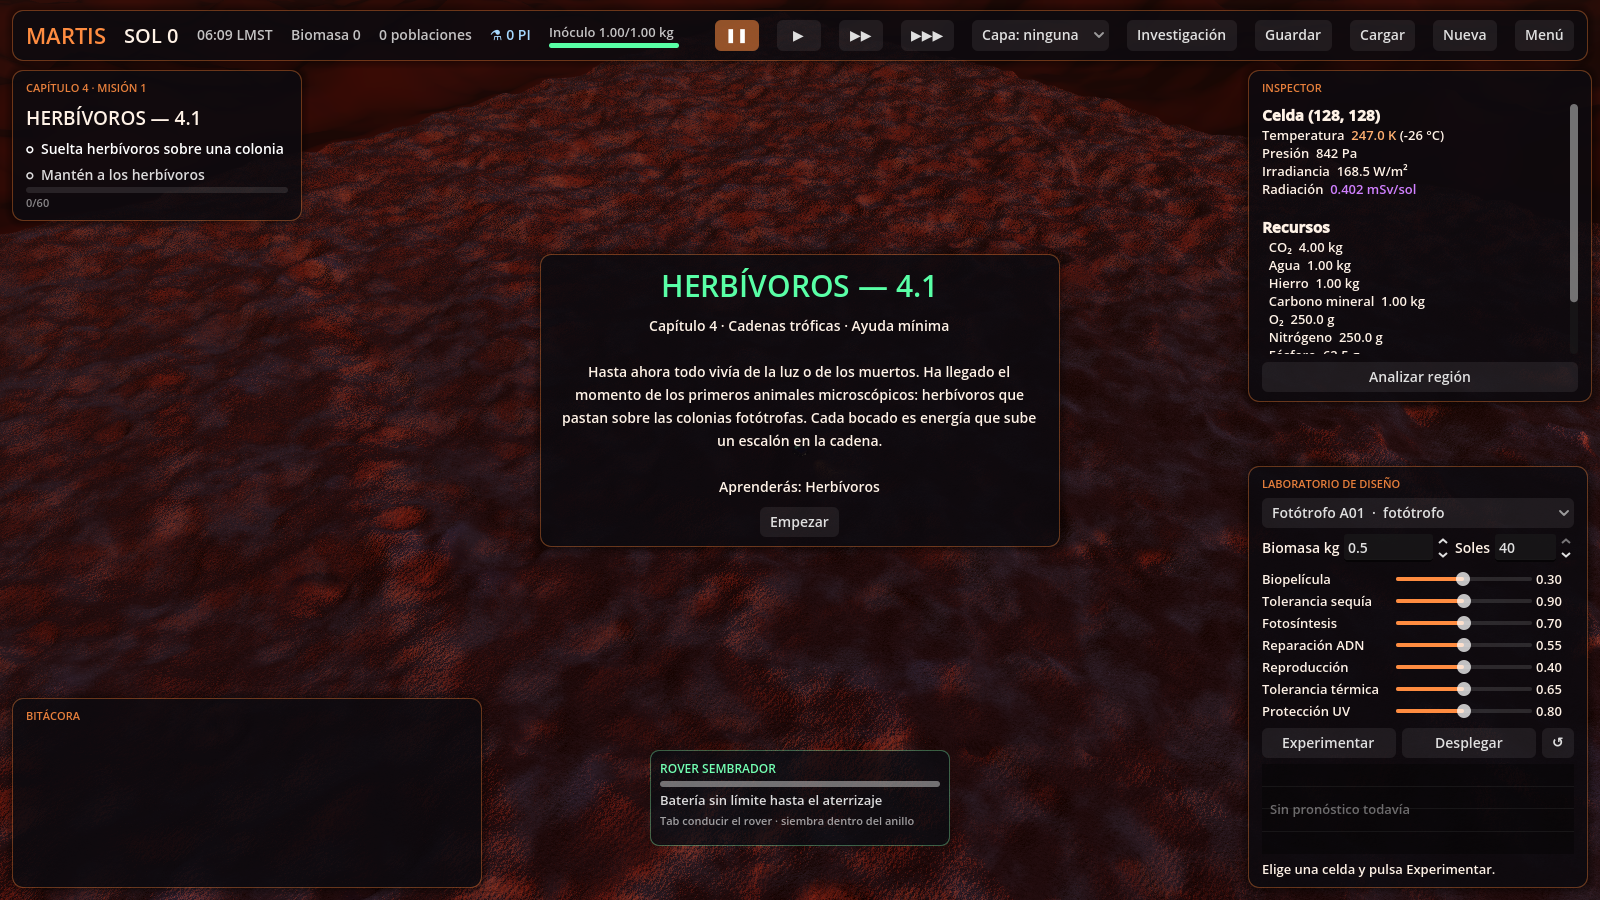
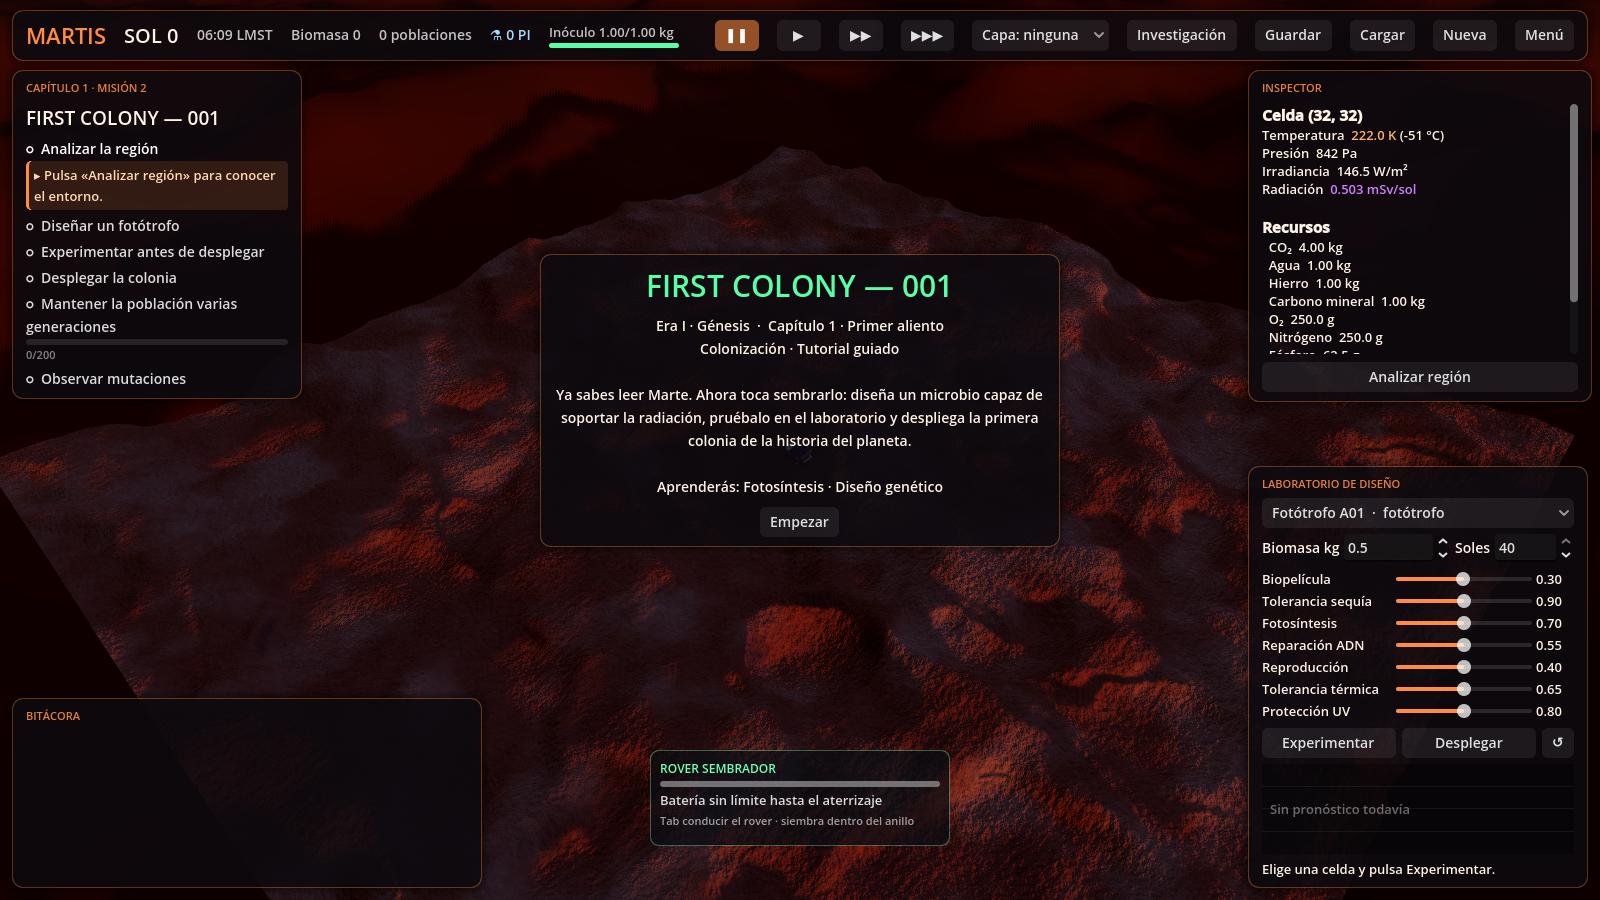
H8: eras y tipos de misión del documento maestro v2.0, etiqueta epistémica y ADR-028
- Capítulos 1-2 en la Era I (Génesis), 3-4 en la II y 5 en la III (§5).
- Cada misión lleva su tipo del §11; el briefing muestra era, tipo y ayuda.
- Conceptos del códice etiquetados como ciencia, modelo o especulativo (§2, §36.1).
- ADR-028, ROADMAP y capturas.

Claude-Session: https://claude.ai/code/session_01QWS2wGiFfDwYnMReGvXqSx

diff --git a/src/Martis.Simulation/Missions/Campaign.cs b/src/Martis.Simulation/Missions/Campaign.cs
@@ -9,19 +9,57 @@ namespace Martis.Simulation.Missions;
 /// One mission of the campaign, in play order. <see cref="File"/> is under <c>data/missions</c>.
 /// <see cref="Teaches"/> names the concepts (H8) the player learns by finishing it.
 /// </summary>
-public sealed record CampaignMission(string Id, string File, string ChapterId, int Number, IReadOnlyList<string>? Teaches = null)
+public sealed record CampaignMission(string Id, string File, string ChapterId, int Number, IReadOnlyList<string>? Teaches = null, MissionKind Kind = MissionKind.Colonization)
 {
     public IReadOnlyList<string> Concepts => Teaches ?? [];
 }
 
-/// <summary>A concept of the codex (H8): what a mission teaches, shown in its briefing and debrief.</summary>
-public sealed record CampaignConcept(string Id, string Title, string Text);
+/// <summary>
+/// A concept of the codex (H8): what a mission teaches, shown in its briefing and debrief.
+/// <see cref="Epistemic"/> labels how solid it is (master document v2.0, §2 and §36.1).
+/// </summary>
+public sealed record CampaignConcept(string Id, string Title, string Text, Epistemic Epistemic = Epistemic.Science);
+
+/// <summary>Mission types of the master document v2.0, §11.</summary>
+public enum MissionKind
+{
+    Reconnaissance,
+    Sampling,
+    Experiment,
+    Colonization,
+    Restoration,
+    Terraforming,
+    Expedition,
+}
+
+/// <summary>How a concept should be read (master document v2.0, §2: «rigor transparente»).</summary>
+public enum Epistemic
+{
+    /// <summary>Established science.</summary>
+    Science,
+
+    /// <summary>A simplified model of real science, tuned for play.</summary>
+    Model,
+
+    /// <summary>Speculative: a game hypothesis, labelled as such.</summary>
+    Speculative,
+}
+
+/// <summary>The eras of progression of the master document v2.0, §5.</summary>
+public static class Eras
+{
+    public static readonly IReadOnlyList<string> Names = ["Génesis", "Ecosistemas", "Inteligencia", "Expansión", "Biosferas múltiples"];
+
+    public static string Roman(int era) => era switch { 1 => "I", 2 => "II", 3 => "III", 4 => "IV", 5 => "V", _ => throw new ArgumentOutOfRangeException(nameof(era)) };
+
+    public static string Name(int era) => Names[era - 1];
+}
 
 /// <summary>
 /// One chapter. <see cref="GridSize"/> is the side of the map its missions use (64, 128 or
 /// 256, Daniel 2026-11-16). A chapter with no missions is announced but not playable yet.
 /// </summary>
-public sealed record CampaignChapter(string Id, int Number, string Title, string Summary, int GridSize, IReadOnlyList<CampaignMission> Missions, int? PopulationBudget = null, string? Gradient = null, string? Transitions = null, string? Trophic = null, GuidanceLevel Guidance = GuidanceLevel.Hints)
+public sealed record CampaignChapter(string Id, int Number, string Title, string Summary, int GridSize, IReadOnlyList<CampaignMission> Missions, int? PopulationBudget = null, string? Gradient = null, string? Transitions = null, string? Trophic = null, GuidanceLevel Guidance = GuidanceLevel.Hints, int Era = 1)
 {
     public bool Playable => Missions.Count > 0;
 
@@ -105,7 +143,8 @@ public sealed record CampaignDefinition(string Id, string Name, IReadOnlyList<Ca
                 IReadOnlyList<string>? teaches = mission.TryGetProperty("teaches", out var taught)
                     ? [.. taught.EnumerateArray().Select(concept => concept.GetString()!)]
                     : null;
-                missions.Add(new CampaignMission(id, mission.GetProperty("file").GetString()!, chapterId, missions.Count + 1, teaches));
+                var kind = mission.TryGetProperty("kind", out var kindItem) ? ParseKind(id, kindItem.GetString()) : MissionKind.Colonization;
+                missions.Add(new CampaignMission(id, mission.GetProperty("file").GetString()!, chapterId, missions.Count + 1, teaches, kind));
             }
 
             chapters.Add(new CampaignChapter(
@@ -119,7 +158,12 @@ public sealed record CampaignDefinition(string Id, string Name, IReadOnlyList<Ca
                 item.TryGetProperty("gradient", out var gradient) ? gradient.GetString() : null,
                 item.TryGetProperty("transitions", out var transitions) ? transitions.GetString() : null,
                 item.TryGetProperty("trophic", out var trophic) ? trophic.GetString() : null,
-                item.TryGetProperty("guidance", out var guidance) ? ParseGuidance(chapterId, guidance.GetString()) : GuidanceLevel.Hints));
+                item.TryGetProperty("guidance", out var guidance) ? ParseGuidance(chapterId, guidance.GetString()) : GuidanceLevel.Hints,
+                item.TryGetProperty("era", out var era) ? era.GetInt32() : 1));
+            if (chapters[^1].Era is < 1 or > 5 || (chapters.Count > 1 && chapters[^1].Era < chapters[^2].Era))
+            {
+                throw new InvalidDataException($"Chapter '{chapterId}' needs an era from 1 to 5 that does not go back.");
+            }
         }
 
         var concepts = new List<CampaignConcept>();
@@ -127,7 +171,14 @@ public sealed record CampaignDefinition(string Id, string Name, IReadOnlyList<Ca
         {
             foreach (var item in conceptItems.EnumerateArray())
             {
-                var concept = new CampaignConcept(item.GetProperty("id").GetString()!, item.GetProperty("title").GetString()!, item.GetProperty("text").GetString()!);
+                var epistemic = item.TryGetProperty("epistemic", out var label) ? label.GetString() switch
+                {
+                    "science" => Epistemic.Science,
+                    "model" => Epistemic.Model,
+                    "speculative" => Epistemic.Speculative,
+                    var other => throw new InvalidDataException($"Unknown epistemic label '{other}'; use science, model or speculative."),
+                } : Epistemic.Science;
+                var concept = new CampaignConcept(item.GetProperty("id").GetString()!, item.GetProperty("title").GetString()!, item.GetProperty("text").GetString()!, epistemic);
                 if (concepts.Any(other => other.Id == concept.Id) || string.IsNullOrWhiteSpace(concept.Title) || string.IsNullOrWhiteSpace(concept.Text))
                 {
                     throw new InvalidDataException($"Concept '{concept.Id}' is repeated or has no title or text.");
@@ -167,6 +218,18 @@ public sealed record CampaignDefinition(string Id, string Name, IReadOnlyList<Ca
 
         return new CampaignDefinition(meta.GetProperty("id").GetString()!, meta.GetProperty("name").GetString()!, chapters, concepts, policy);
     }
+
+    private static MissionKind ParseKind(string missionId, string? value) => value switch
+    {
+        "reconnaissance" => MissionKind.Reconnaissance,
+        "sampling" => MissionKind.Sampling,
+        "experiment" => MissionKind.Experiment,
+        "colonization" => MissionKind.Colonization,
+        "restoration" => MissionKind.Restoration,
+        "terraforming" => MissionKind.Terraforming,
+        "expedition" => MissionKind.Expedition,
+        _ => throw new InvalidDataException($"Mission '{missionId}' has unknown kind '{value}'."),
+    };
 
     private static GuidanceLevel ParseGuidance(string chapterId, string? value) => value switch
     {

diff --git a/src/Martis.Game/scripts/CampaignMenu.cs b/src/Martis.Game/scripts/CampaignMenu.cs
@@ -53,7 +53,7 @@ public partial class CampaignMenu : Control
         title.AddThemeColorOverride("font_shadow_color", new Color(0, 0, 0, 0.8f));
         title.AddThemeConstantOverride("shadow_offset_y", 3);
         column.AddChild(title);
-        var subtitle = new Label { Text = "G É N E S I S   ·   de la primera bacteria a la primera mente", HorizontalAlignment = HorizontalAlignment.Center };
+        var subtitle = new Label { Text = "G É N E S I S   ·   de la primera bacteria a un Marte vivo", HorizontalAlignment = HorizontalAlignment.Center };
         subtitle.AddThemeFontSizeOverride("font_size", 17);
         subtitle.AddThemeColorOverride("font_color", new Color(1f, 0.93f, 0.85f, 0.85f));
         column.AddChild(subtitle);
@@ -123,7 +123,13 @@ public partial class CampaignMenu : Control
         foreach (var concept in progress.Campaign.Concepts)
         {
             var known = learned.Contains(concept.Id);
-            var name = new Label { Text = known ? concept.Title : "🔒  ???" };
+            var badge = concept.Epistemic switch
+            {
+                Epistemic.Science => "  ·  ciencia",
+                Epistemic.Model => "  ·  modelo simplificado",
+                _ => "  ·  especulativo",
+            };
+            var name = new Label { Text = known ? concept.Title + badge : "🔒  ???" };
             name.AddThemeFontSizeOverride("font_size", 17);
             name.AddThemeColorOverride("font_color", known ? Hud.Accent : Dim);
             _codexRows.AddChild(name);
@@ -189,7 +195,7 @@ public partial class CampaignMenu : Control
         var box = new VBoxContainer();
         box.AddThemeConstantOverride("separation", 8);
         panel.AddChild(box);
-        var number = new Label { Text = string.Create(CultureInfo.InvariantCulture, $"CAPÍTULO {chapter.Number}") };
+        var number = new Label { Text = string.Create(CultureInfo.InvariantCulture, $"ERA {Eras.Roman(chapter.Era)} · CAPÍTULO {chapter.Number}") };
         number.AddThemeFontSizeOverride("font_size", 12);
         number.AddThemeColorOverride("font_color", done ? Hud.Bio : Hud.Accent);
         box.AddChild(number);

diff --git a/tests/Martis.Simulation.Tests/Missions/GuidanceTests.cs b/tests/Martis.Simulation.Tests/Missions/GuidanceTests.cs
@@ -161,6 +161,38 @@ public sealed class GuidanceTests
         Assert.Throws<InvalidDataException>(() => CampaignDefinition.Load(json.Replace(from, to, StringComparison.Ordinal)));
     }
 
+    [Fact]
+    public void TheCampaignFollowsTheErasOfTheMasterDocument()
+    {
+        Assert.Equal([1, 1, 2, 2, 3], Campaign.Chapters.Select(chapter => chapter.Era));
+        Assert.Equal("Génesis", Eras.Name(Campaign.Chapters[0].Era));
+        Assert.Equal(MissionKind.Reconnaissance, Campaign.Mission("awakening").Kind);
+        Assert.Equal(MissionKind.Colonization, Campaign.Mission("first_colony").Kind);
+        Assert.Equal(MissionKind.Terraforming, Campaign.Mission("oxygen").Kind);
+    }
+
+    [Fact]
+    public void SpeculativeConceptsAreLabelled()
+    {
+        Assert.Equal(Epistemic.Speculative, Campaign.Concept("socialidad").Epistemic);
+        Assert.Equal(Epistemic.Speculative, Campaign.Concept("inteligencia").Epistemic);
+        Assert.Equal(Epistemic.Science, Campaign.Concept("fotosintesis").Epistemic);
+        Assert.All(Campaign.Missions.Where(mission => Campaign.ChapterOf(mission.Id).Era == 1).SelectMany(mission => mission.Concepts),
+            concept => Assert.NotEqual(Epistemic.Speculative, Campaign.Concept(concept).Epistemic));
+    }
+
+    [Theory]
+    [InlineData("\"era\": 2", "\"era\": 0")]
+    [InlineData("\"kind\": \"reconnaissance\"", "\"kind\": \"party\"")]
+    [InlineData("\"epistemic\": \"speculative\"", "\"epistemic\": \"rumour\"")]
+    public void AnUnknownEraKindOrLabelIsRefused(string from, string to)
+    {
+        var json = File.ReadAllText(Path.Combine(Repo.Root(), "data", "campaign", "genesis.v1.json"));
+        Assert.Contains(from, json, StringComparison.Ordinal);
+
+        Assert.Throws<InvalidDataException>(() => CampaignDefinition.Load(json.Replace(from, to, StringComparison.Ordinal)));
+    }
+
     private static (GameSession Session, MissionGuidance Guidance) Start(GuidanceLevel level)
         => (GameSession.NewGame(Repo.Root(), 5UL, "awakening.v1.json"), new MissionGuidance(level, Campaign.Guidance));
 }

diff --git a/src/Martis.Game/scripts/GameRoot.cs b/src/Martis.Game/scripts/GameRoot.cs
@@ -199,9 +199,21 @@ public partial class GameRoot : Node
         var first = _guidance?.ShowsHint ?? true ? definition.Objectives[0].Hint ?? definition.Objectives[0].Title : definition.Objectives[0].Title;
         _hud.Banner(
             definition.Name,
-            string.Create(CultureInfo.InvariantCulture, $"Capítulo {chapter.Number} · {chapter.Title} · {Guidance(chapter.Guidance)}\n\n{definition.Briefing}{learn}"),
+            string.Create(CultureInfo.InvariantCulture, $"Era {Eras.Roman(chapter.Era)} · {Eras.Name(chapter.Era)}  ·  Capítulo {chapter.Number} · {chapter.Title}\n{Kind(mission.Kind)} · {Guidance(chapter.Guidance)}\n\n{definition.Briefing}{learn}"),
             ("Empezar", () => _hud.Toast(first)));
     }
+
+    /// <summary>Mission types of the master document v2.0, §11, as the briefing names them.</summary>
+    internal static string Kind(MissionKind kind) => kind switch
+    {
+        MissionKind.Reconnaissance => "Reconocimiento",
+        MissionKind.Sampling => "Muestreo",
+        MissionKind.Experiment => "Experimento",
+        MissionKind.Colonization => "Colonización",
+        MissionKind.Restoration => "Restauración",
+        MissionKind.Terraforming => "Terraformación",
+        _ => "Expedición",
+    };
 
     /// <summary>How the briefing names the help of a chapter (H8).</summary>
     private static string Guidance(GuidanceLevel level) => level switch

diff --git a/docs/ADR/ADR-028-guia-progresiva.md b/docs/ADR/ADR-028-guia-progresiva.md
@@ -1,0 +1,45 @@
+# ADR-028 — Guía progresiva, códice y eras de la campaña (H8)
+
+- **Estado:** Propuesto, 2026-11-17. Los umbrales son GAME_BALANCE.
+- **Fuente:** petición de Daniel del 2026-11-17 («ir guiando al jugador durante la campaña para que vaya aprendiendo los conceptos y a ser autónomo») y el documento maestro v2.0 (§2, §5, §11, §30, §32 y §36).
+- **Numeración:** el ADR-027 queda reservado para el rediseño del documento maestro.
+
+## Decisiones
+
+### La ayuda se retira por capítulos (`GuidanceLevel`, `MissionGuidance`)
+
+| Capítulo | Nivel | Qué ve el jugador |
+| --- | --- | --- |
+| 1 | Tutorial | Pasos en orden y la pista siempre visible |
+| 2 | Pistas | La pista siempre visible y los objetivos en cualquier orden |
+| 3 | A petición | Botón «Pista»; la pista también aparece sola tras 30 soles sin avanzar |
+| 4 | Mínima | Sin botón; la pista aparece sola tras 90 soles sin avanzar |
+| 5 | Ninguna | Sin pistas |
+
+- **Avance:** cuenta como avance completar un objetivo o que se mueva una barra de progreso. Cualquier avance pone a cero el contador de soles. Un objetivo nuevo esconde la pista que se había pedido.
+- **Umbrales:** son parámetros de `genesis.v1.json` (`campaign.guidance.*`).
+- **Independencia del mundo:** la política solo mira el estado de la misión y los soles, no las casillas. Sirve igual con el mundo del documento maestro.
+
+### Códice y resumen de misión
+
+- **Conceptos:** `genesis.v1.json` define 17 conceptos y cada misión enseña los suyos (`teaches`). Un concepto lo enseña una sola misión.
+- **Briefing:** dice qué se va a aprender y cuánta ayuda hay.
+- **Al terminar:** el juego muestra el texto de cierre de la misión (`debrief`) y los conceptos nuevos.
+- **Códice:** `CampaignProgress.Learned` reúne lo aprendido y el menú de campaña lo enseña en «Códice». Los conceptos que faltan aparecen bloqueados.
+- **Etiqueta epistémica:** cada concepto lleva `science`, `model` o `speculative` (§2 «rigor transparente» y §36.1, que pide etiquetar lo especulativo). Socialidad e inteligencia son especulativas. Ningún concepto de la Era I lo es.
+
+### Eras y tipos de misión del documento maestro
+
+- **Eras (§5):** los capítulos 1 y 2 son la Era I (Génesis), el 3 y el 4 la Era II (Ecosistemas) y el 5 la Era III (Inteligencia, fuera del MVP según el documento).
+- **Tipos de misión (§11):** cada misión lleva uno. Hay reconocimiento (1.1 y 2.1), colonización (1.2, que es la misión de referencia del vertical slice del §32), experimento, restauración (ciclo cerrado y red trófica) y terraformación (2.4, oxígeno). El briefing muestra la era, el capítulo, el tipo y el nivel de ayuda.
+
+### El capítulo 1 enseña el rover
+
+La misión 1.1 añade tres pasos con las acciones del rover de J1 ([ADR-026](ADR-026-expedicion-rover.md)): subir al rover (Tab), conducirlo (WASD) y volver a la vista orbital. Desde J1 solo se siembra cerca del rover. Las acciones `scan-site` y `collect-sample` de V2 y V3 podrán entrar en la guía cuando existan.
+
+## Fuera de alcance
+
+- **Herramientas de diagnóstico de fallos de misión (§30).** Explicar una extinción o un colapso necesita datos de la simulación que la guía no tiene. Se puede añadir después como pista contextual.
+- **El epílogo de terraformación.** Queda pendiente del diseño de la terraformación regional del documento maestro (fase E).
+
+![Códice con los conceptos de la Era I](../images/h8-codice.png)

diff --git a/docs/ROADMAP.md b/docs/ROADMAP.md
@@ -135,7 +135,8 @@ Cada hito va en una rama y un PR propios, apilados.
 - **H5, capítulo 3 (Cooperación, [ADR-023](ADR/ADR-023-capitulo-3.md)):** eucariota y multicelular, transiciones por endosimbiosis y biopelícula, y misiones 3.1 a 3.3.
 - **H6, capítulo 4 (Cadenas tróficas, [ADR-024](ADR/ADR-024-capitulo-4.md)):** herbívoros y depredadores con respuesta de Holling y refugio, y misiones 4.1 a 4.3. La dispersión activa queda aplazada.
 - **H7, capítulo 5 (Mente, [ADR-025](ADR/ADR-025-capitulo-5.md)):** colonia social que nace de depredadores longevos, caza cooperativa, índice de inteligencia y misiones 5.1 y 5.2. La especie que transforma su mundo queda para después de H8.
-- **H8:** narrativa y equilibrado.
+- **H8, guía progresiva ([ADR-028](ADR/ADR-028-guia-progresiva.md)):** pistas que se retiran por capítulos, códice de conceptos con etiqueta epistémica, resumen al cerrar cada misión, eras y tipos de misión del documento maestro v2.0 y tutorial del rover.
+- **H9:** equilibrado jugando (H-32, H-33) y diagnóstico de fallos de misión (§30 del documento maestro).
 
 ### Expedición (jugabilidad abierta, elegida por Daniel el 2026-11-17)
 

diff --git a/docs/ADR/README.md b/docs/ADR/README.md
@@ -26,5 +26,6 @@
 - [ADR-024 — Capítulo 4 «Cadenas tróficas»: herbivoría y depredación (H6)](ADR-024-capitulo-4.md) (Propuesto)
 - [ADR-025 — Capítulo 5 «Mente»: socialidad e índice de inteligencia (H7)](ADR-025-capitulo-5.md) (Propuesto)
 - [ADR-026 — «Expedición»: el rover sembrador (J1)](ADR-026-expedicion-rover.md) (Propuesto)
+- [ADR-028 — Guía progresiva, códice y eras de la campaña (H8)](ADR-028-guia-progresiva.md) (Propuesto)
 
 Huecos del TDD: [docs/TDD_HUECOS.md](../TDD_HUECOS.md).
